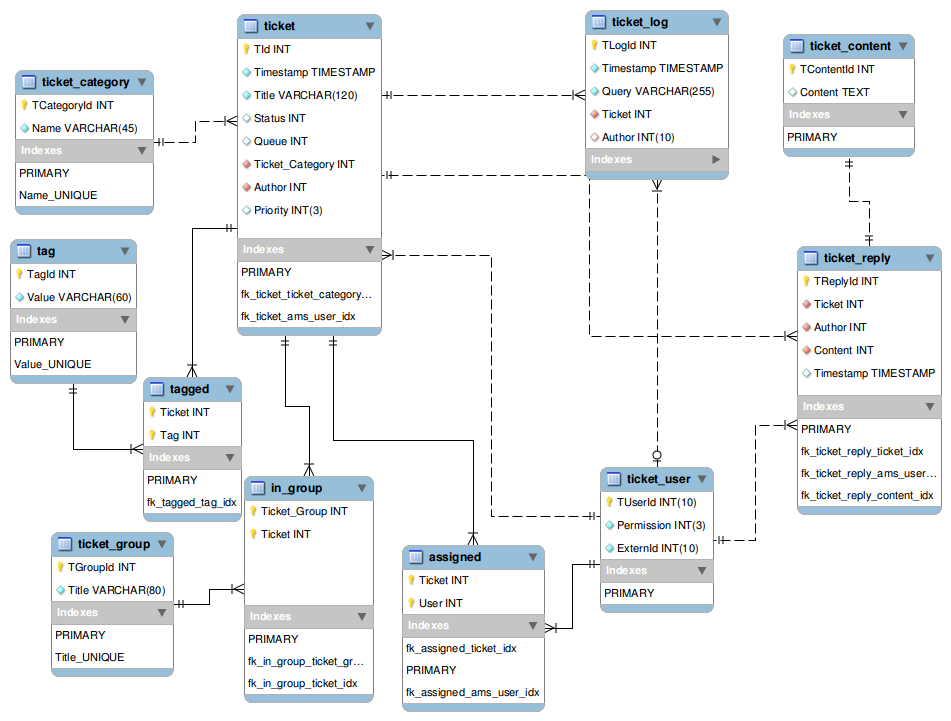
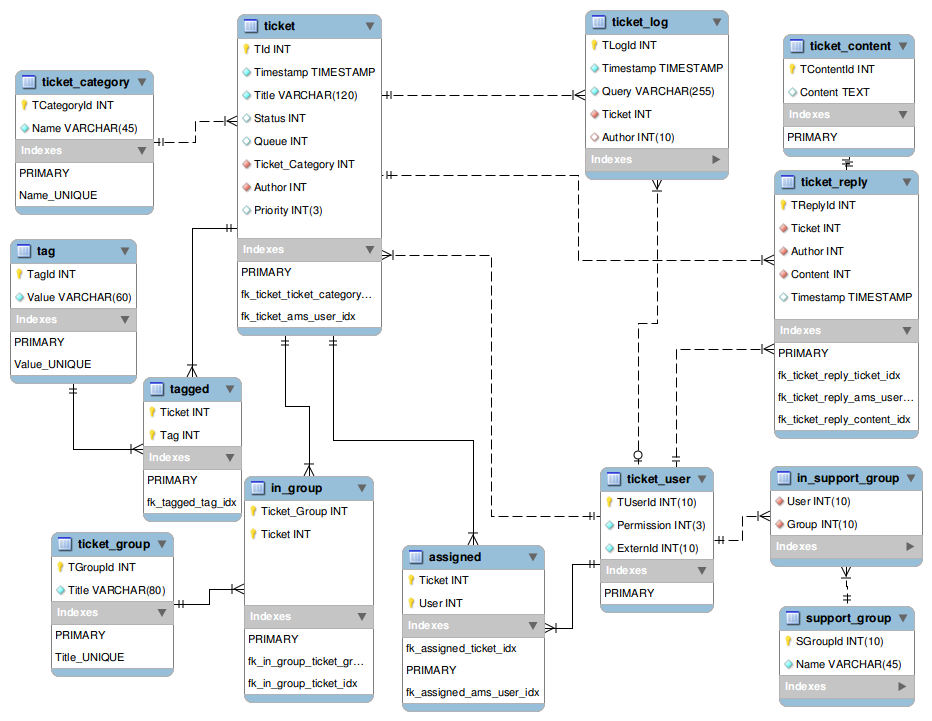
Updated database and sql model added support group and insupportgroup
--HG--
branch : quitta-gsoc-2013

diff --git a/code/ryzom/tools/server/ryzom_ams/www/html/sql/install.php b/code/ryzom/tools/server/ryzom_ams/www/html/sql/install.php
@@ -272,6 +272,42 @@
         ENGINE = InnoDB;
             
         INSERT IGNORE INTO `" . $cfg['db']['lib']['name'] ."`.`ticket_category` (`Name`) VALUES ('Hacking'),('Ingame-Bug'),('Website-Bug'),('Installation');
+        
+                
+        -- -----------------------------------------------------
+        -- Table `" . $cfg['db']['lib']['name'] ."`.`support_group`
+        -- -----------------------------------------------------
+        DROP TABLE IF EXISTS `" . $cfg['db']['lib']['name'] ."`.`support_group` ;
+        
+        CREATE  TABLE IF NOT EXISTS `" . $cfg['db']['lib']['name'] ."`.`support_group` (
+          `SGroupId` INT(10) NOT NULL AUTO_INCREMENT ,
+          `Name` VARCHAR(45) NOT NULL ,
+          PRIMARY KEY (`SGroupId`) )
+        ENGINE = InnoDB;
+        
+        
+        -- -----------------------------------------------------
+        -- Table `" . $cfg['db']['lib']['name'] ."`.`in_support_group`
+        -- -----------------------------------------------------
+        DROP TABLE IF EXISTS `" . $cfg['db']['lib']['name'] ."`.`in_support_group` ;
+        
+        CREATE  TABLE IF NOT EXISTS `" . $cfg['db']['lib']['name'] ."`.`in_support_group` (
+          `User` INT(10) UNSIGNED NOT NULL ,
+          `Group` INT(10) NOT NULL ,
+          INDEX `fk_in_support_group_ticket_user1` (`User` ASC) ,
+          INDEX `fk_in_support_group_support_group1` (`Group` ASC) ,
+          CONSTRAINT `fk_in_support_group_ticket_user1`
+            FOREIGN KEY (`User` )
+            REFERENCES `" . $cfg['db']['lib']['name'] ."`.`ticket_user` (`TUserId` )
+            ON DELETE NO ACTION
+            ON UPDATE NO ACTION,
+          CONSTRAINT `fk_in_support_group_support_group1`
+            FOREIGN KEY (`Group` )
+            REFERENCES `" . $cfg['db']['lib']['name'] ."`.`support_group` (`SGroupId` )
+            ON DELETE NO ACTION
+            ON UPDATE NO ACTION)
+        ENGINE = InnoDB;
+
                 
 
         ";
